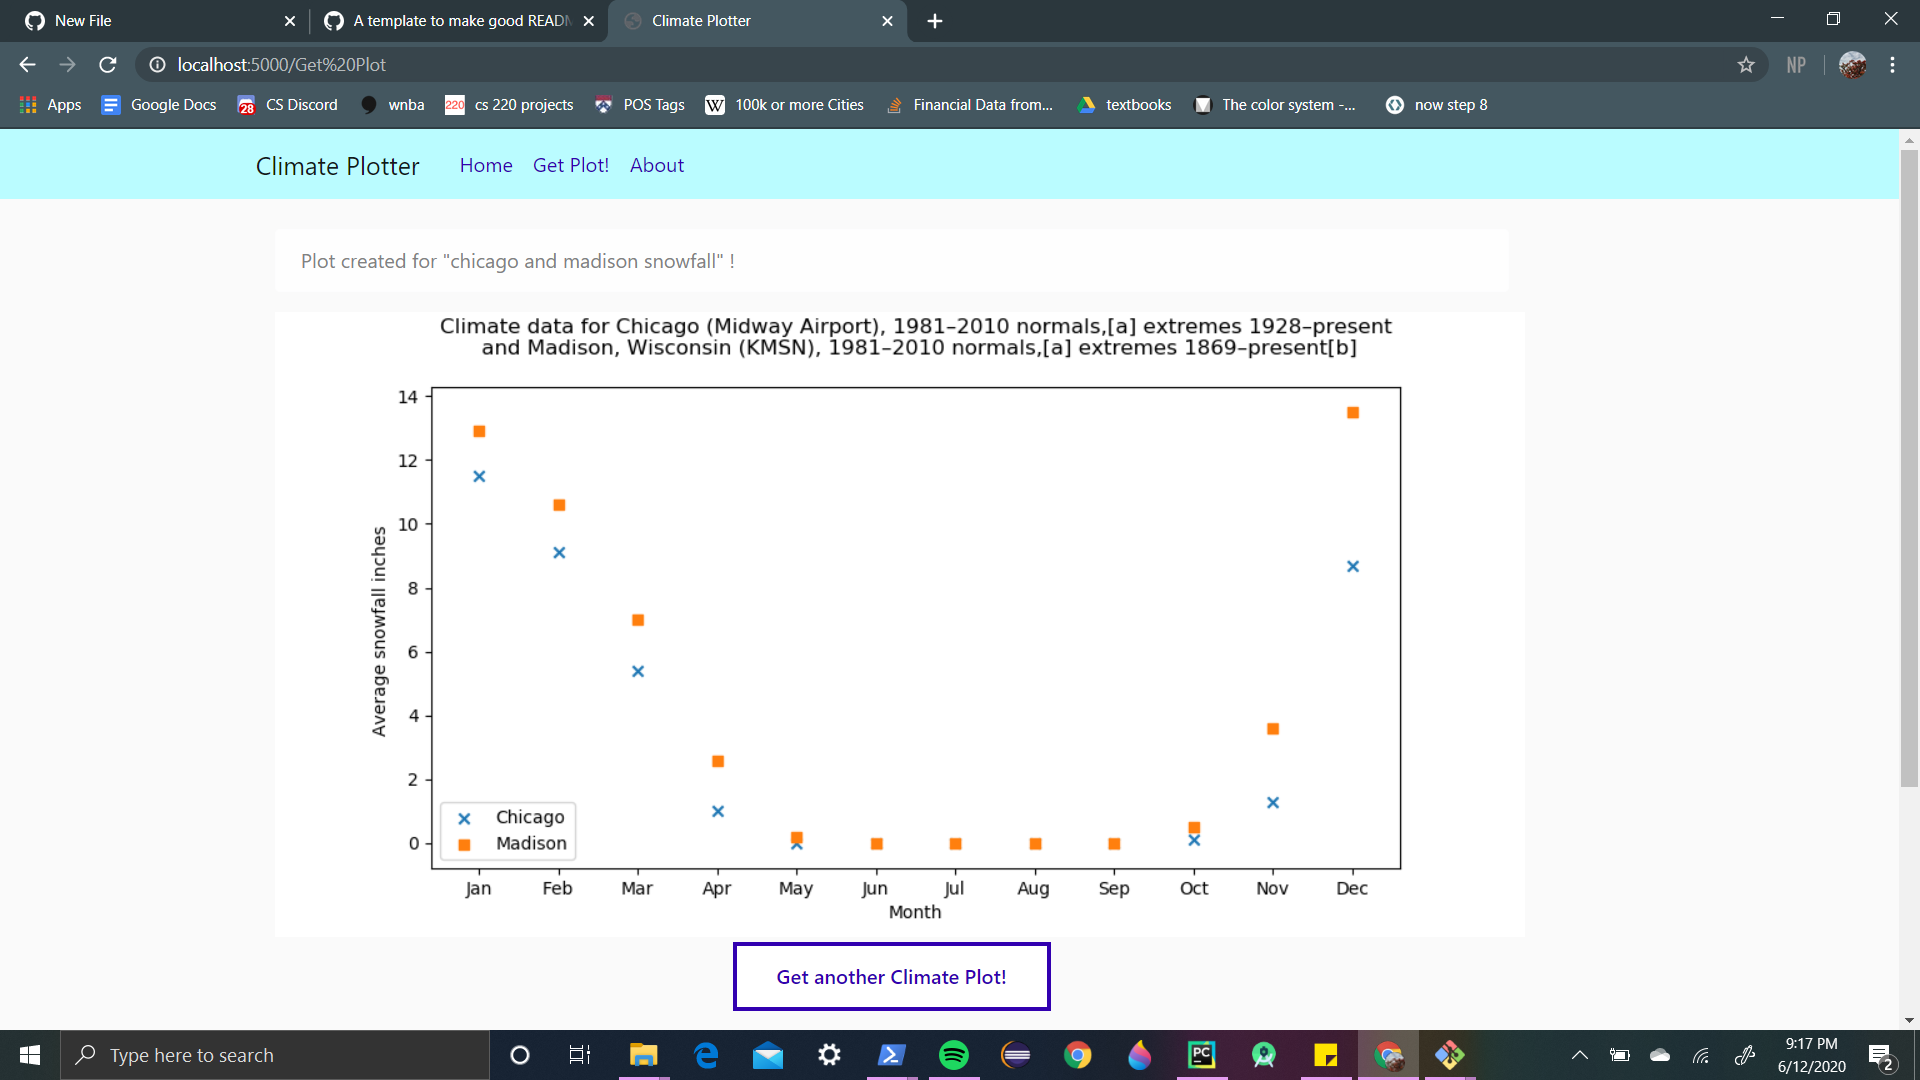
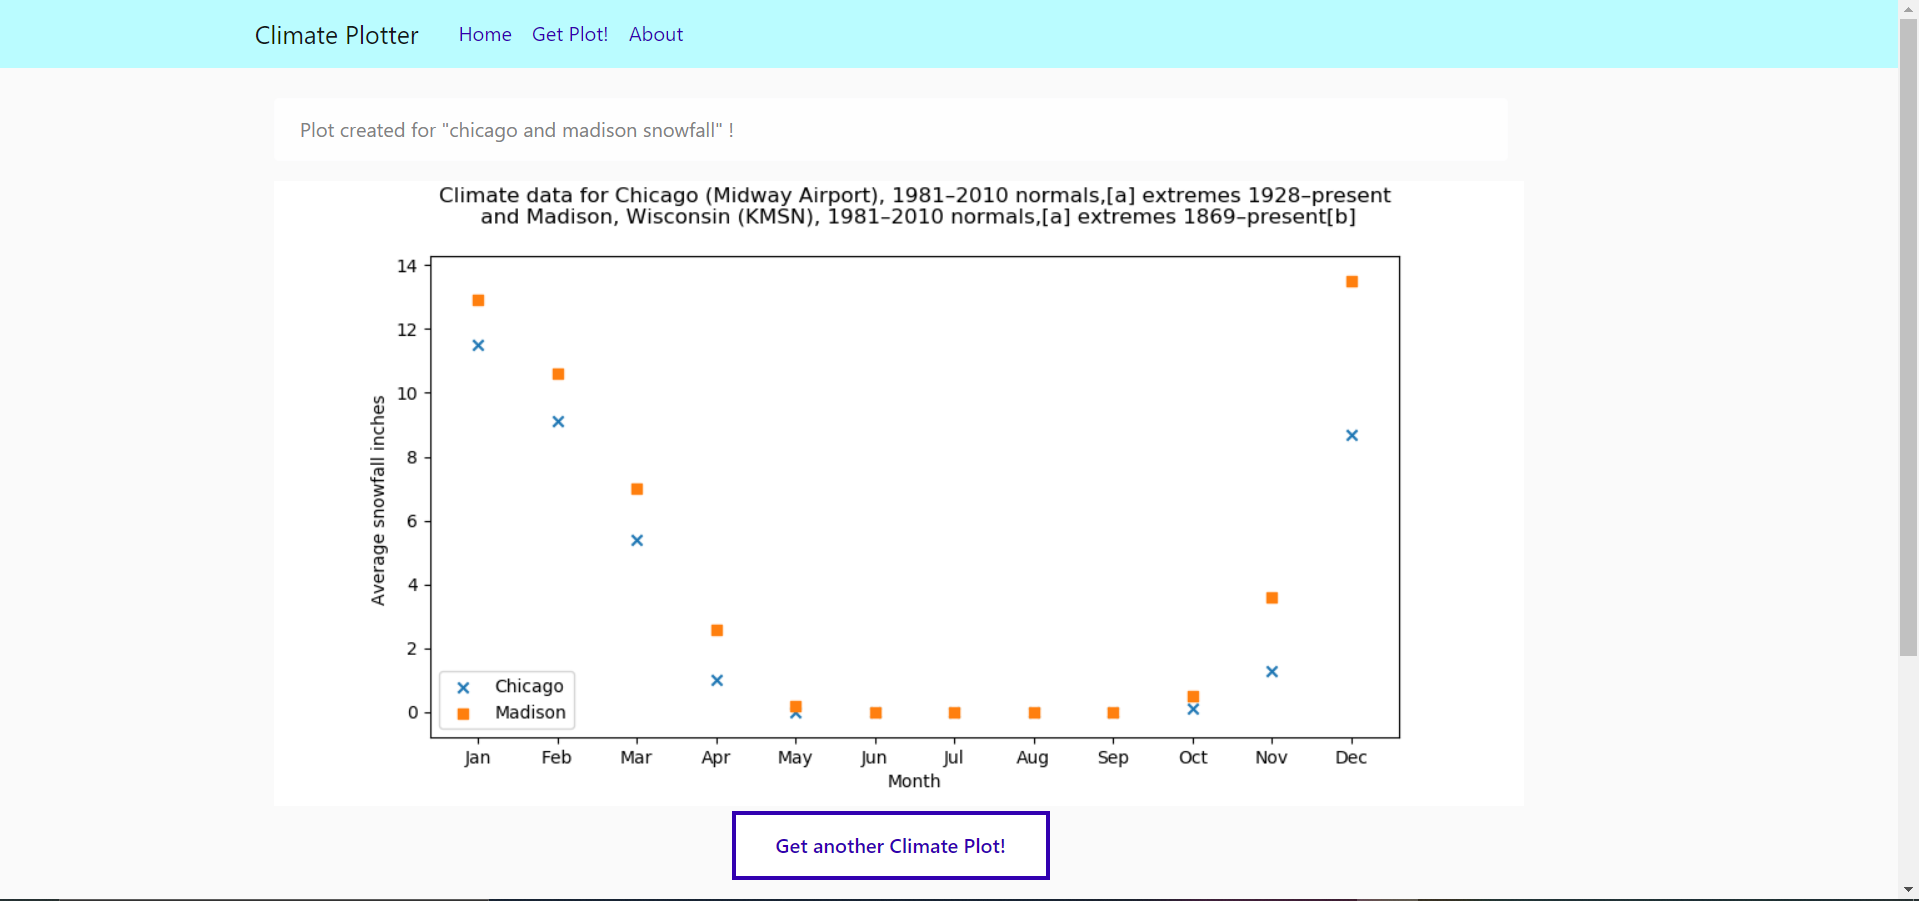
recent changes

diff --git a/templates/home_layout.html b/templates/home_layout.html
@@ -47,7 +47,7 @@
           <br>
           <br>
         <br>
-        <div class = "space">
+
         <div class="info_list">
             <div class="col-md-4">
 
@@ -55,13 +55,12 @@
                         <h3>Climate Plotter Info</h3>
                         <p class='text-muted'>Updates on Climate Plotter
                           <ul class="list-group">
-                            <li class="list-group-item list-group-item-light">Updates</li>
+                            <li class="list-group-item list-group-item-light">Updates Coming Soon!</li>
                           </ul>
                         </p>
                     </div>
             </div>
       </div>
-        </div>
 	<small>Created by Vaishnavi Deshpande(vaishdesh2001@gmail.com)</small>
     </main>
 

diff --git a/templates/output.html b/templates/output.html
@@ -1,6 +1,6 @@
 {% extends "home_layout.html" %}
 {% block content %}
-<img src="{{url_for('static', filename=(city + '.png'))}}" align="middle" />
+<center><img src="{{url_for('static', filename=(city + '.png'))}}" align="middle" /></center>
 <a href = "{{url_for('get_plot')}}">
 <h6><center><div class = "button">Get another Climate Plot!</div></center></h6></a>
 {% endblock content %}

diff --git a/templates/about.html b/templates/about.html
@@ -3,7 +3,7 @@
 <body>
 	<br>
 	<br>
-	<h2><center><b>Climate Plotter</b> is an unique search engine solely focused on pulling and plotting climate data.</center></h2>
+	<h2><center><b>Climate Plotter</b> is a unique search engine solely focused on pulling and plotting climate data.</center></h2>
 	<br>
 	<br>
 	<br>

diff --git a/Climate_Runner_App.py b/Climate_Runner_App.py
@@ -4,6 +4,7 @@ from bs4 import BeautifulSoup
 import pandas as pd
 import nltk
 import matplotlib.pyplot as plt
+from matplotlib.pyplot import figure
 
 
 # download html with the given filename given the url
@@ -100,7 +101,6 @@ def ret_list_stat_values(climate_table_city, keyword):
 
 # constructing the dataframe to construct a plot
 def each_stat_plot_climate(climate_table_city, keyword):
-    specific_row = None
     if climate_table_city is None:
         raise ValueError("No Climate Table Found")
 
@@ -110,6 +110,7 @@ def each_stat_plot_climate(climate_table_city, keyword):
     list_vals = list_vals_titles[0]
     name_y_axis = list_vals_titles[1]
     # constructing the dataframe
+
     dict_val_plot = {"Month": list_months, name_y_axis: list_vals}
     df_data = pd.DataFrame(dict_val_plot, list_months)
     df_data = df_data.reset_index(drop=True)
@@ -122,17 +123,24 @@ def plot_screen(climate_table_city, keyword, title_plot):
     df_tuple = each_stat_plot_climate(climate_table_city, keyword)
     df_data = df_tuple[0]
     name_y_axis = df_tuple[1]
-    plt.rcParams["figure.figsize"] = [10, 5]
-    stat_plot = df_data.plot.scatter(x="Month", y=name_y_axis, c="black")
+    figure(num=None, figsize=(16, 9), dpi=70, facecolor='w', edgecolor='k')
+    plt.scatter(df_data["Month"], df_data[name_y_axis], marker='o')
+    plt.xlabel("Month")
+    plt.ylabel(name_y_axis)
+    if "vte" in title_plot:
+        parts = title_plot.split("vte")
+        title_plot = parts[1]
+    if "edit" in title_plot:
+        part_edit = title_plot.split("edit")
+        title_plot = part_edit[0].strip() + part_edit[1]
     plt.title(title_plot)
-    return stat_plot
 
 
 # function that returns the appropriate url for the city
 def return_city_url(city_name):
     assert city_name is not None
     starting_letter = city_name[0]
-    f_spec_html = open(os.path.join("city_html_files", starting_letter + ".html"), encoding="utf-8")
+    f_spec_html = open(os.path.join("city_html_files", starting_letter.upper() + ".html"), encoding="utf-8")
     html_text = f_spec_html.read()
     f_spec_html.close()
     doc = BeautifulSoup(html_text, "html.parser")
@@ -256,6 +264,8 @@ def create_list_stats(list_cities, str_input):
     city_url = return_city_url(city)
     download(city + "_data.html", city_url)
     table_climate = parse_html_tables(city + "_data.html", "climate")[0]
+    if table_climate is None:
+        raise ValueError("No Climate Table found for the Given City!")
     table_rows = table_climate.find_all("tr")
     table_rows = table_rows[2:]  # ignoring the table heading and month row
     list_stats = []
@@ -267,9 +277,8 @@ def create_list_stats(list_cities, str_input):
     return list_stats
 
 
-# remember to use this in assign_city_type_stat!!!!!!
 def assign_city(list_cities, str_input):
-    str_input = str_input.lower()
+    str_input = str_input
     city = check_hyphen(str_input, list_cities)
     if city is not None:
         return city
@@ -361,6 +370,10 @@ def ret_stat(list_stats, str_input):
                     type_stat = each_stat
                     break
 
+    if "inches" in type_stat or "cm" in type_stat:
+        part_unit = type_stat.split("inches")
+        type_stat = part_unit[0]
+
     return type_stat
 
 
@@ -445,7 +458,7 @@ def check_compare(list_cities, list_stats, str_input):
 
 # method that calls city_stat_plot() if there is only one city in the input
 def single_plot(given_city, type_stat):
-    city_plot_title = city_stat_plot(given_city, "climate", type_stat)
+    city_stat_plot(given_city, "climate", type_stat)
     plt.savefig(os.path.join("static", given_city + ".png"))
 
 
@@ -470,7 +483,7 @@ def double_city_plot(list_cities, list_stats, str_input):
     y_axis_title = list_specs_city1_title[1]
     list_specs_city2_title = ret_list_stat_values(table_city2, type_stat)
     list_specs2 = list_specs_city2_title[0]
-    plt.rcParams["figure.figsize"] = [10, 5]
+    figure(num=None, figsize=(16, 9), dpi=70, facecolor='w', edgecolor='k')
     plt.scatter(list_months, list_specs1, marker='x', label=city1.capitalize())
     plt.scatter(list_months, list_specs2, marker='s', label=city2.capitalize())
     if "Climate data for" in table_city1_title and "Climate data for" in table_city2_title:
@@ -483,6 +496,9 @@ def double_city_plot(list_cities, list_stats, str_input):
             parts = table_city2_title.split("edit")
             table_city2_title = parts[0] + parts[1]
         combined_title = table_city1_title + " and" + table_city2_title.split("Climate data for")[1]
+        if "vte" in combined_title:
+            parts_vte = combined_title.split("vte")
+            combined_title = parts_vte[1]
         plt.title(combined_title)
     plt.xlabel("Month")
     plt.ylabel(y_axis_title)
@@ -496,11 +512,16 @@ def double_city_plot(list_cities, list_stats, str_input):
 
 
 def main(str_input):
+    str_input = str_input.lower()
     plt.clf()
     generating_city_files()
     list_cities = create_list_cities()
     try:
-        list_stats = create_list_stats(list_cities, str_input.lower())
+        list_stats = create_list_stats(list_cities, str_input)
+    except ValueError:
+        raise ValueError("")
+        print("No Climate Table found for the given city")
+        return
     except AssertionError:
         print("Your sentence does not contain a city, or the city has a population lesser than 100k")
         return
@@ -525,7 +546,8 @@ def main(str_input):
         return given_city
     else:
         try:
-            return double_city_plot(list_cities, list_stats, str_input.lower)
+            return double_city_plot(list_cities, list_stats, str_input.lower())
         except AssertionError:
             print("Your sentence does not contain a city, or the city has a population lesser than 100k")
             print("or your sentence doesn't contain a recognized climate statistic for this city")
+

diff --git a/flask_climate.py b/flask_climate.py
@@ -26,7 +26,11 @@ def get_plot():
     if form.validate_on_submit():
         str_input = form.str_input.data
         plot_command = str_input
-        city = Climate_Runner_App.main(str_input)
+        try:
+            city = Climate_Runner_App.main(str_input)
+        except ValueError:
+            flash(f"No climate table found for the given city '{str_input}'", 'danger')
+            return render_template('get_plot.html', title='Get Plot', form=form)
         if city is None:
             flash(f"'{form.str_input.data}' does not contain a city, or the city has a population lesser than 100k or "
                   f"your sentence doesn't contain a recognized climate statistic for this city! ",

diff --git a/wsgi.py b/wsgi.py
@@ -1,0 +1,4 @@
+import app_flask
+
+if __name__ == "__main__":
+    app_flask.run()
